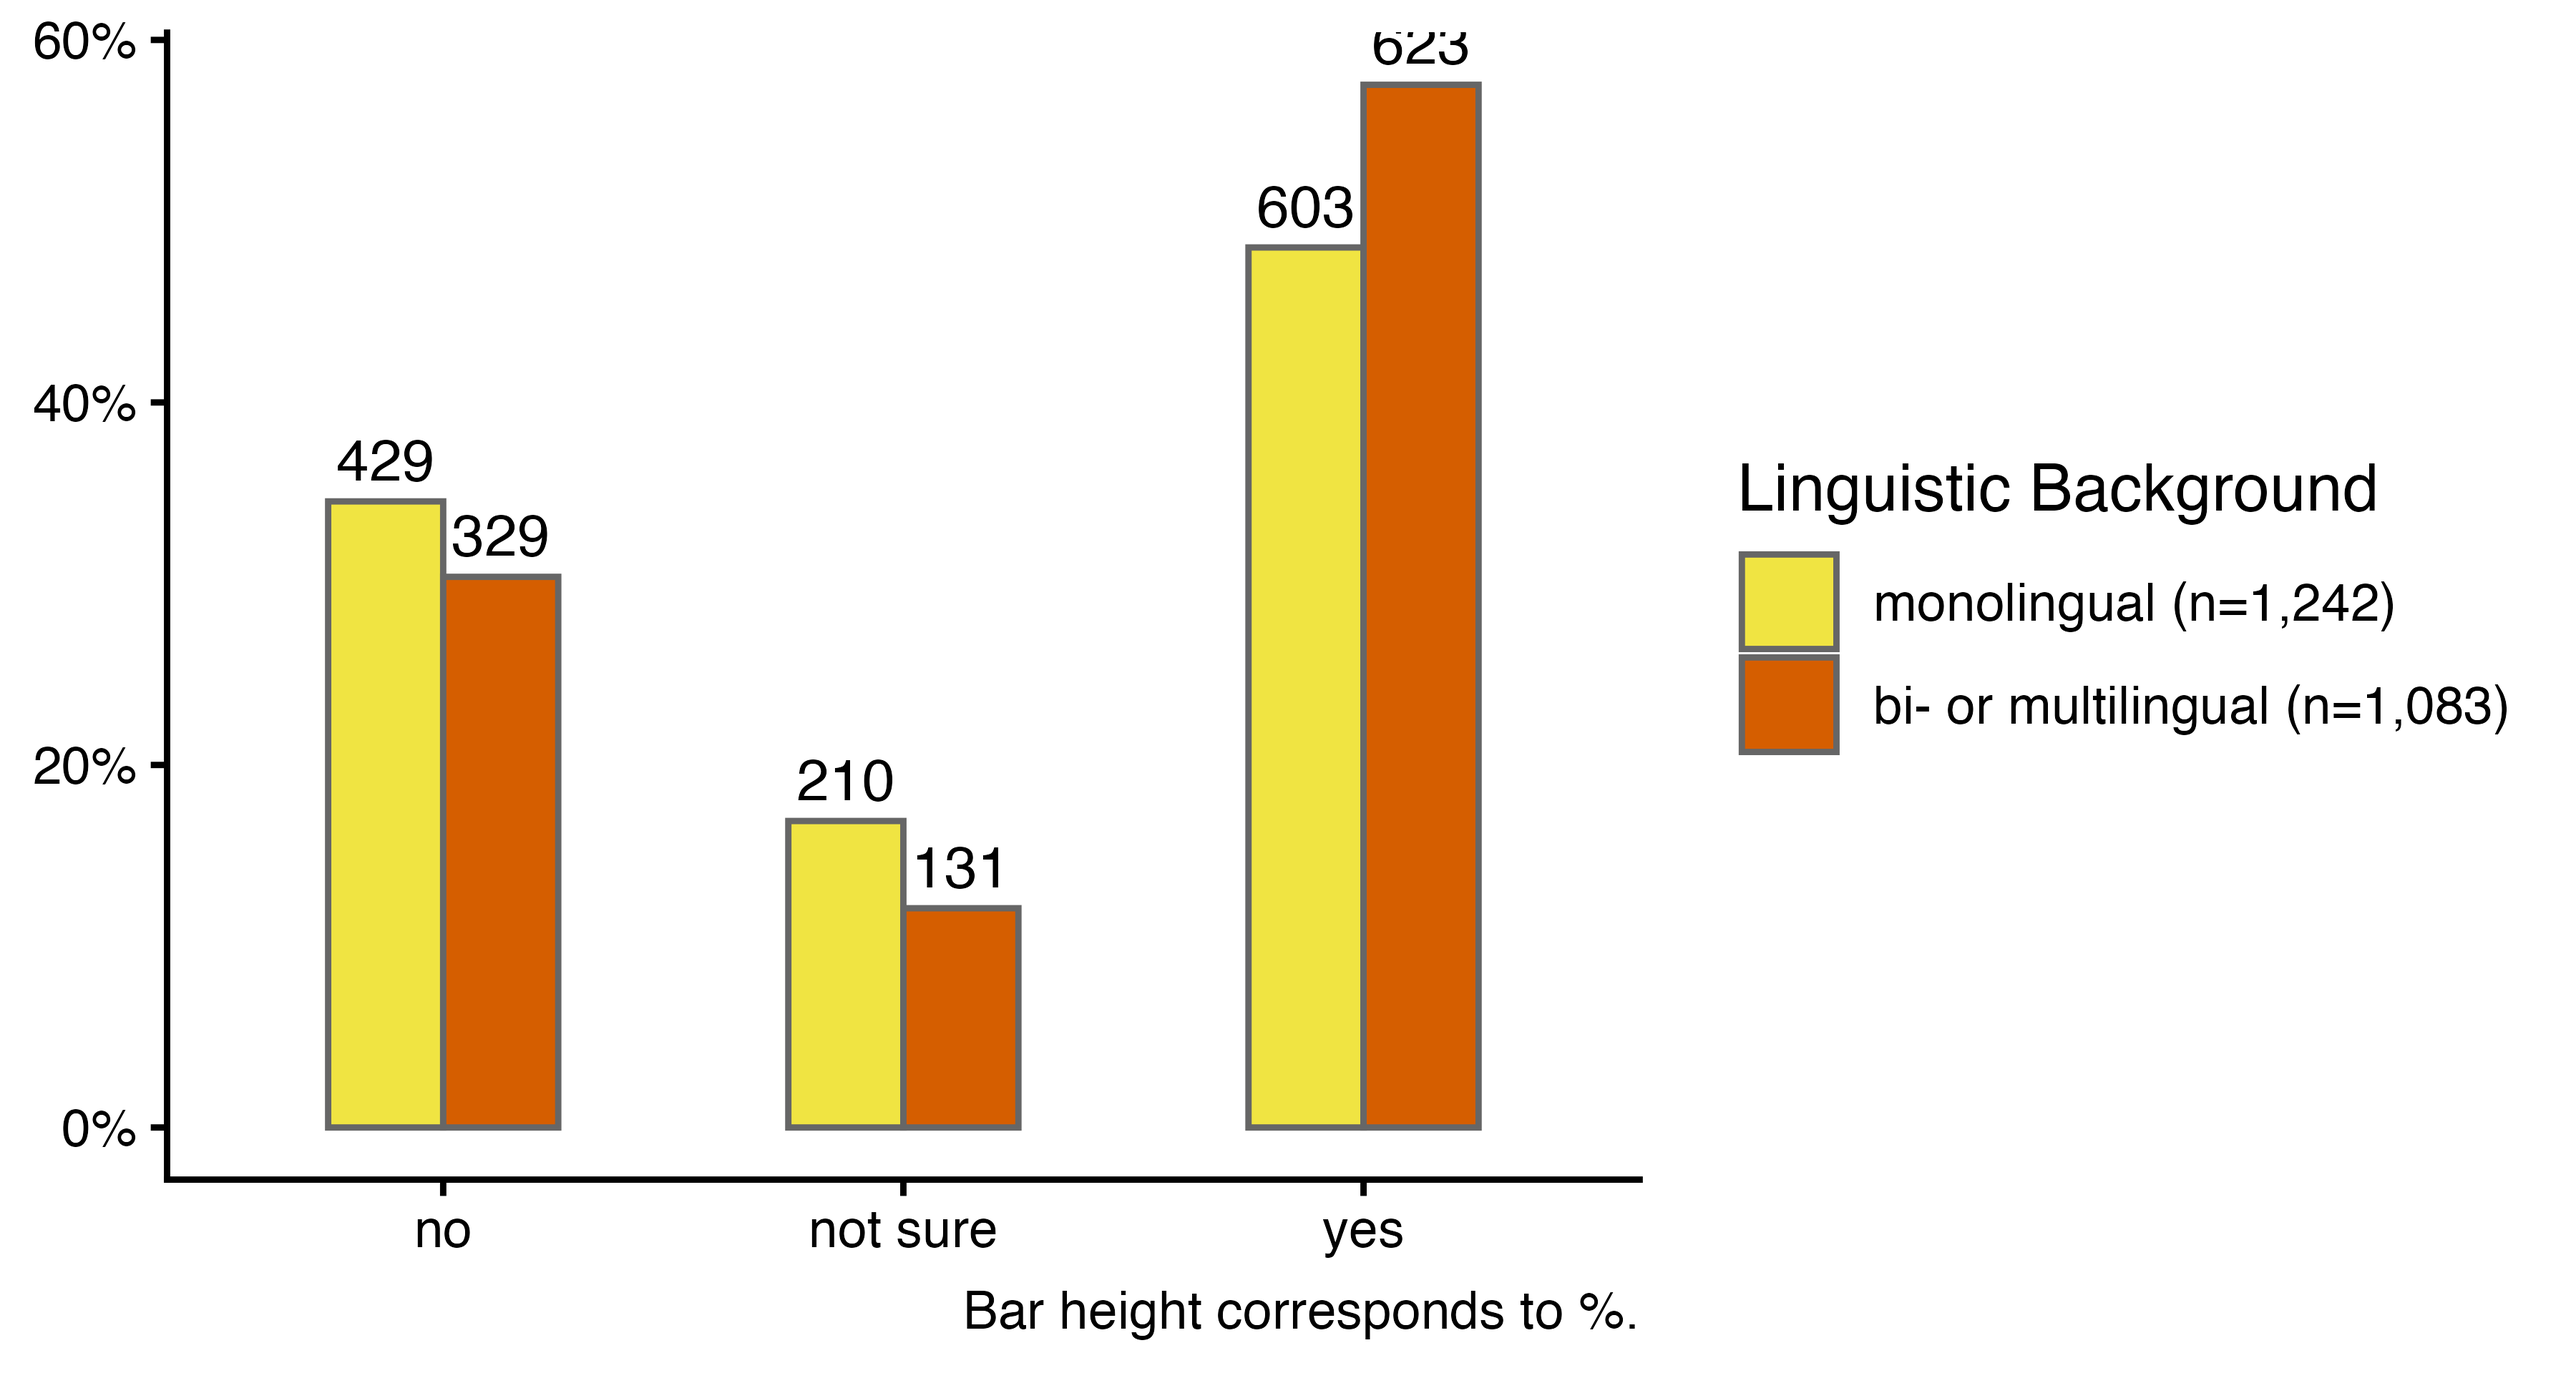
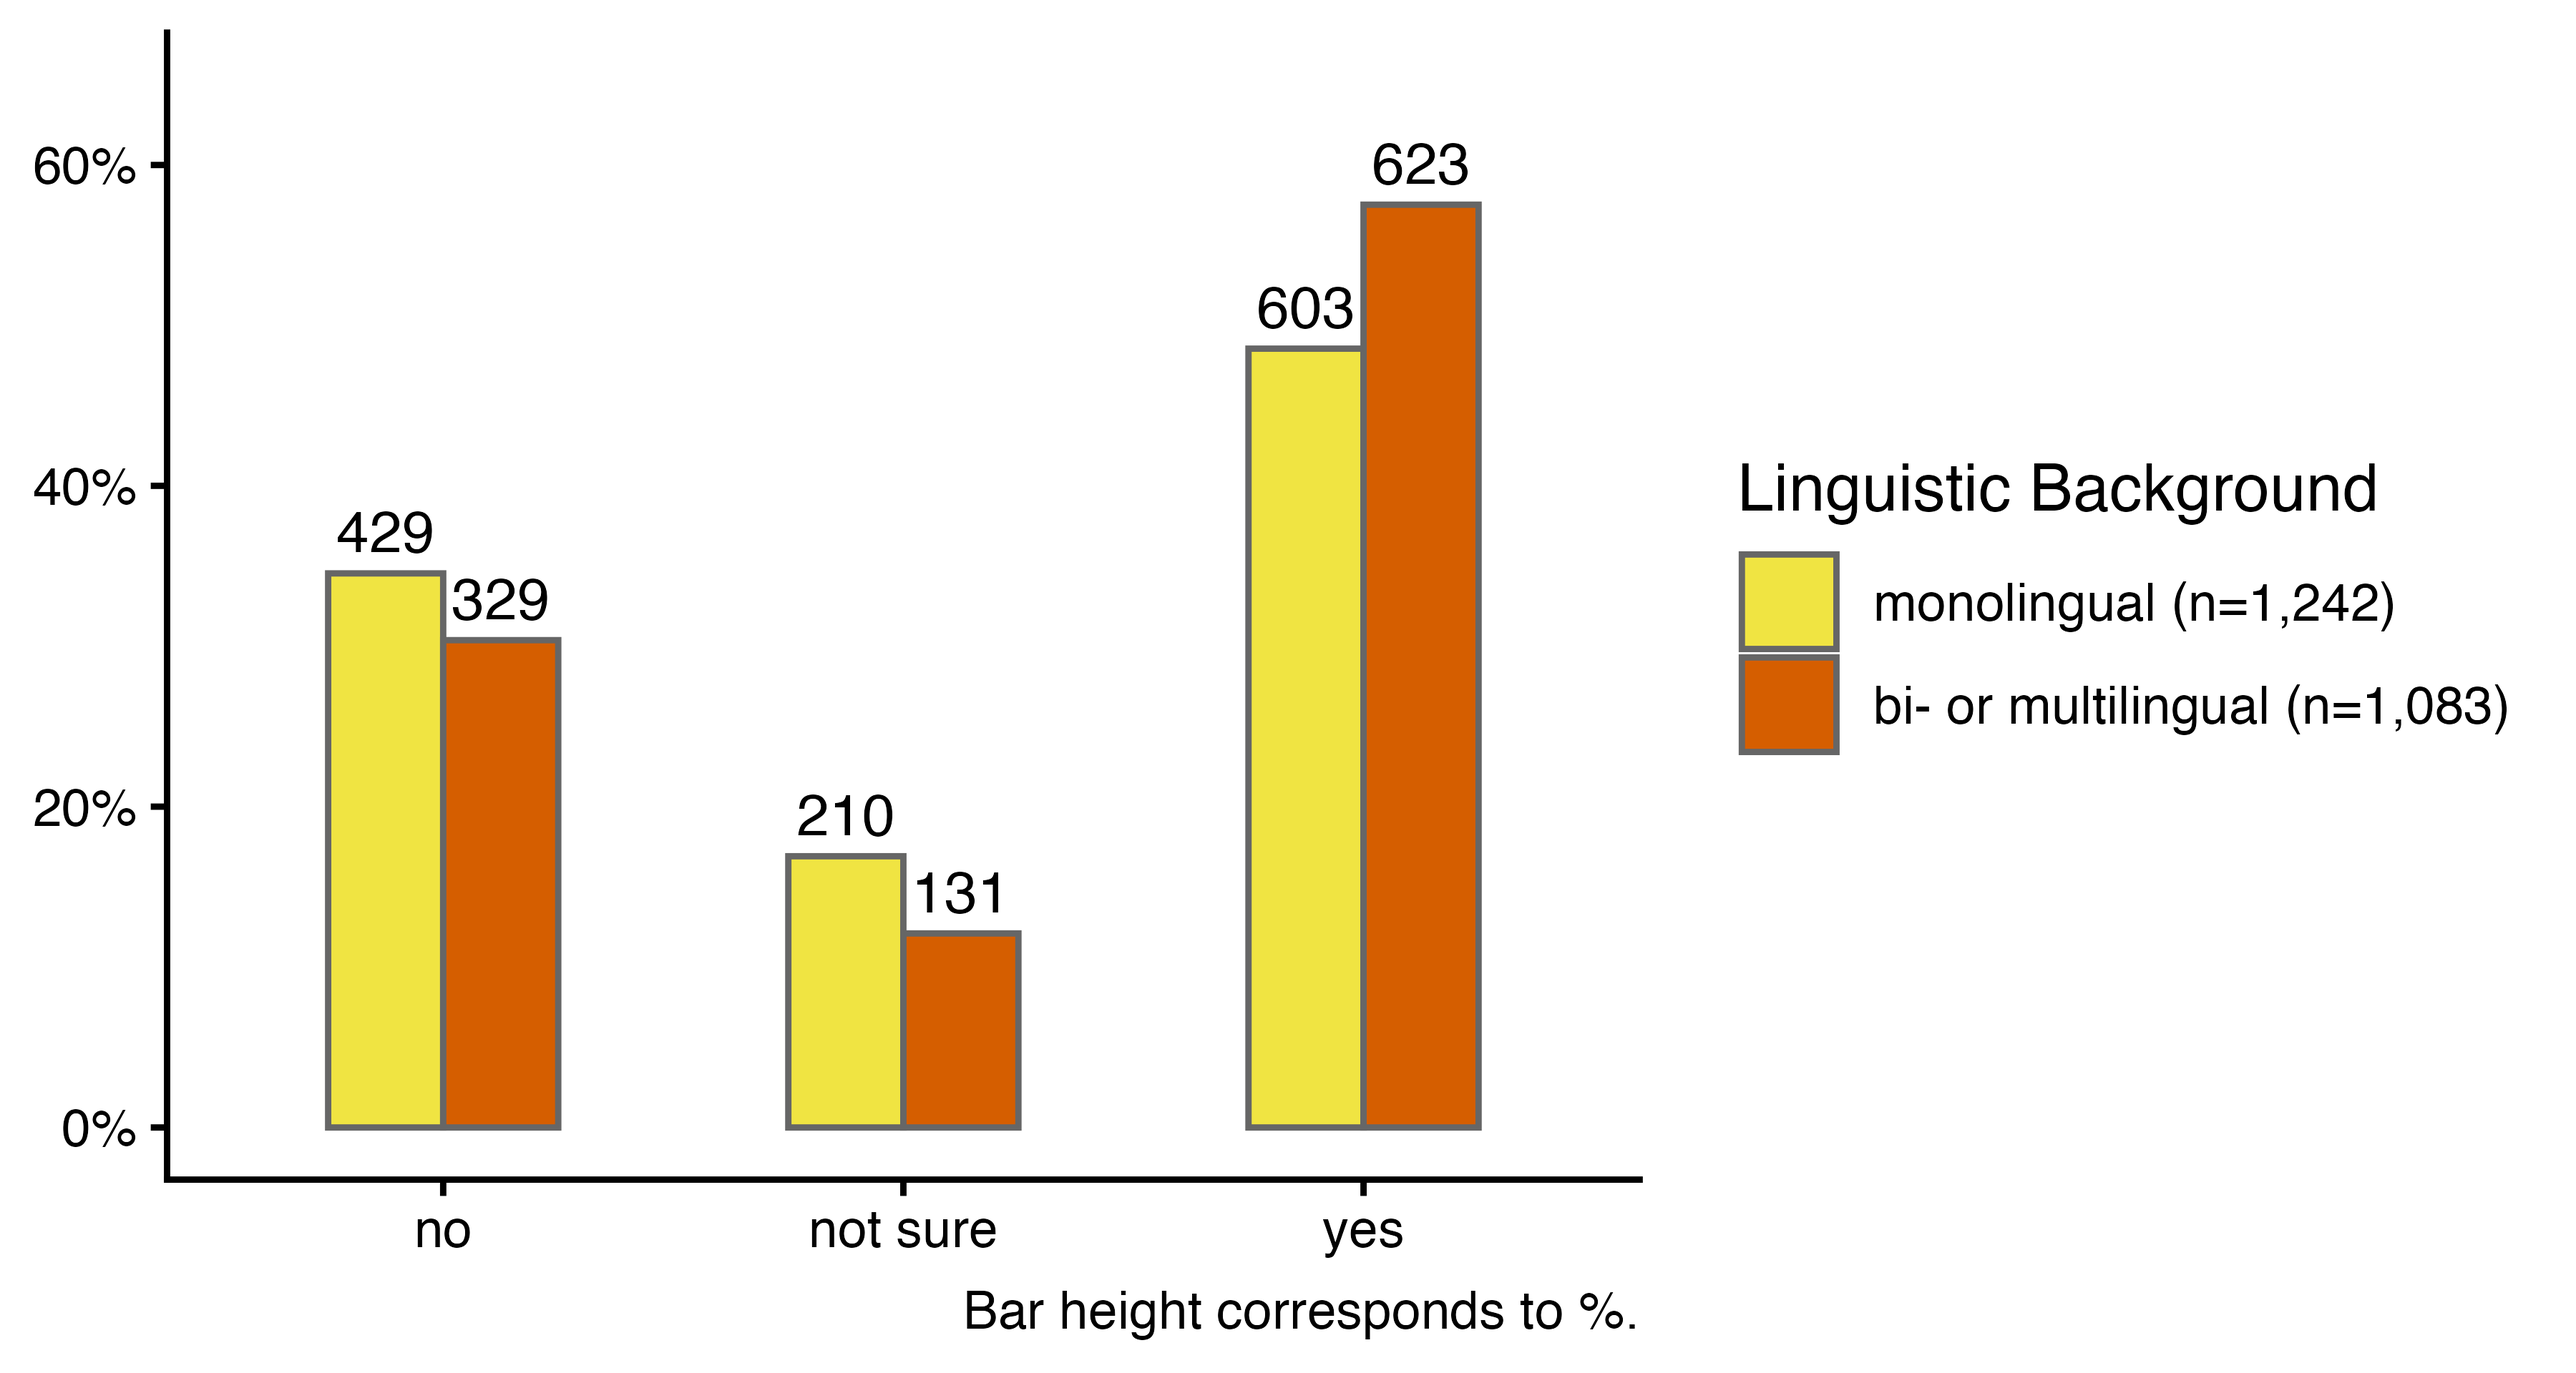
coord_cartesian instead of ylim

diff --git a/index.html b/index.html
@@ -286,23 +286,23 @@ To Stefan
 <p>I have selected the following variables by short names, hoping that these are the correct ones to show in Figure 2.</p>
 <div class="cell">
 <div class="cell-output-display">
-<div id="whhauertcx" style="padding-left:0px;padding-right:0px;padding-top:10px;padding-bottom:10px;overflow-x:auto;overflow-y:auto;width:auto;height:auto;">
-<style>#whhauertcx table {
+<div id="hksutqnycy" style="padding-left:0px;padding-right:0px;padding-top:10px;padding-bottom:10px;overflow-x:auto;overflow-y:auto;width:auto;height:auto;">
+<style>#hksutqnycy table {
   font-family: system-ui, 'Segoe UI', Roboto, Helvetica, Arial, sans-serif, 'Apple Color Emoji', 'Segoe UI Emoji', 'Segoe UI Symbol', 'Noto Color Emoji';
   -webkit-font-smoothing: antialiased;
   -moz-osx-font-smoothing: grayscale;
 }
 
-#whhauertcx thead, #whhauertcx tbody, #whhauertcx tfoot, #whhauertcx tr, #whhauertcx td, #whhauertcx th {
+#hksutqnycy thead, #hksutqnycy tbody, #hksutqnycy tfoot, #hksutqnycy tr, #hksutqnycy td, #hksutqnycy th {
   border-style: none;
 }
 
-#whhauertcx p {
+#hksutqnycy p {
   margin: 0;
   padding: 0;
 }
 
-#whhauertcx .gt_table {
+#hksutqnycy .gt_table {
   display: table;
   border-collapse: collapse;
   line-height: normal;
@@ -328,12 +328,12 @@ To Stefan
   border-left-color: #D3D3D3;
 }
 
-#whhauertcx .gt_caption {
+#hksutqnycy .gt_caption {
   padding-top: 4px;
   padding-bottom: 4px;
 }
 
-#whhauertcx .gt_title {
+#hksutqnycy .gt_title {
   color: #333333;
   font-size: 125%;
   font-weight: initial;
@@ -345,7 +345,7 @@ To Stefan
   border-bottom-width: 0;
 }
 
-#whhauertcx .gt_subtitle {
+#hksutqnycy .gt_subtitle {
   color: #333333;
   font-size: 85%;
   font-weight: initial;
@@ -357,7 +357,7 @@ To Stefan
   border-top-width: 0;
 }
 
-#whhauertcx .gt_heading {
+#hksutqnycy .gt_heading {
   background-color: #FFFFFF;
   text-align: center;
   border-bottom-color: #FFFFFF;
@@ -369,13 +369,13 @@ To Stefan
   border-right-color: #D3D3D3;
 }
 
-#whhauertcx .gt_bottom_border {
+#hksutqnycy .gt_bottom_border {
   border-bottom-style: solid;
   border-bottom-width: 2px;
   border-bottom-color: #D3D3D3;
 }
 
-#whhauertcx .gt_col_headings {
+#hksutqnycy .gt_col_headings {
   border-top-style: solid;
   border-top-width: 2px;
   border-top-color: #D3D3D3;
@@ -390,7 +390,7 @@ To Stefan
   border-right-color: #D3D3D3;
 }
 
-#whhauertcx .gt_col_heading {
+#hksutqnycy .gt_col_heading {
   color: #333333;
   background-color: #FFFFFF;
   font-size: 100%;
@@ -410,7 +410,7 @@ To Stefan
   overflow-x: hidden;
 }
 
-#whhauertcx .gt_column_spanner_outer {
+#hksutqnycy .gt_column_spanner_outer {
   color: #333333;
   background-color: #FFFFFF;
   font-size: 100%;
@@ -422,15 +422,15 @@ To Stefan
   padding-right: 4px;
 }
 
-#whhauertcx .gt_column_spanner_outer:first-child {
+#hksutqnycy .gt_column_spanner_outer:first-child {
   padding-left: 0;
 }
 
-#whhauertcx .gt_column_spanner_outer:last-child {
+#hksutqnycy .gt_column_spanner_outer:last-child {
   padding-right: 0;
 }
 
-#whhauertcx .gt_column_spanner {
+#hksutqnycy .gt_column_spanner {
   border-bottom-style: solid;
   border-bottom-width: 2px;
   border-bottom-color: #D3D3D3;
@@ -442,11 +442,11 @@ To Stefan
   width: 100%;
 }
 
-#whhauertcx .gt_spanner_row {
+#hksutqnycy .gt_spanner_row {
   border-bottom-style: hidden;
 }
 
-#whhauertcx .gt_group_heading {
+#hksutqnycy .gt_group_heading {
   padding-top: 8px;
   padding-bottom: 8px;
   padding-left: 5px;
@@ -472,7 +472,7 @@ To Stefan
   text-align: left;
 }
 
-#whhauertcx .gt_empty_group_heading {
+#hksutqnycy .gt_empty_group_heading {
   padding: 0.5px;
   color: #333333;
   background-color: #FFFFFF;
@@ -487,15 +487,15 @@ To Stefan
   vertical-align: middle;
 }
 
-#whhauertcx .gt_from_md > :first-child {
+#hksutqnycy .gt_from_md > :first-child {
   margin-top: 0;
 }
 
-#whhauertcx .gt_from_md > :last-child {
+#hksutqnycy .gt_from_md > :last-child {
   margin-bottom: 0;
 }
 
-#whhauertcx .gt_row {
+#hksutqnycy .gt_row {
   padding-top: 8px;
   padding-bottom: 8px;
   padding-left: 5px;
@@ -514,7 +514,7 @@ To Stefan
   overflow-x: hidden;
 }
 
-#whhauertcx .gt_stub {
+#hksutqnycy .gt_stub {
   color: #333333;
   background-color: #FFFFFF;
   font-size: 100%;
@@ -527,7 +527,7 @@ To Stefan
   padding-right: 5px;
 }
 
-#whhauertcx .gt_stub_row_group {
+#hksutqnycy .gt_stub_row_group {
   color: #333333;
   background-color: #FFFFFF;
   font-size: 100%;
@@ -541,15 +541,15 @@ To Stefan
   vertical-align: top;
 }
 
-#whhauertcx .gt_row_group_first td {
+#hksutqnycy .gt_row_group_first td {
   border-top-width: 2px;
 }
 
-#whhauertcx .gt_row_group_first th {
+#hksutqnycy .gt_row_group_first th {
   border-top-width: 2px;
 }
 
-#whhauertcx .gt_summary_row {
+#hksutqnycy .gt_summary_row {
   color: #333333;
   background-color: #FFFFFF;
   text-transform: inherit;
@@ -559,16 +559,16 @@ To Stefan
   padding-right: 5px;
 }
 
-#whhauertcx .gt_first_summary_row {
+#hksutqnycy .gt_first_summary_row {
   border-top-style: solid;
   border-top-color: #D3D3D3;
 }
 
-#whhauertcx .gt_first_summary_row.thick {
+#hksutqnycy .gt_first_summary_row.thick {
   border-top-width: 2px;
 }
 
-#whhauertcx .gt_last_summary_row {
+#hksutqnycy .gt_last_summary_row {
   padding-top: 8px;
   padding-bottom: 8px;
   padding-left: 5px;
@@ -578,7 +578,7 @@ To Stefan
   border-bottom-color: #D3D3D3;
 }
 
-#whhauertcx .gt_grand_summary_row {
+#hksutqnycy .gt_grand_summary_row {
   color: #333333;
   background-color: #FFFFFF;
   text-transform: inherit;
@@ -588,7 +588,7 @@ To Stefan
   padding-right: 5px;
 }
 
-#whhauertcx .gt_first_grand_summary_row {
+#hksutqnycy .gt_first_grand_summary_row {
   padding-top: 8px;
   padding-bottom: 8px;
   padding-left: 5px;
@@ -598,7 +598,7 @@ To Stefan
   border-top-color: #D3D3D3;
 }
 
-#whhauertcx .gt_last_grand_summary_row_top {
+#hksutqnycy .gt_last_grand_summary_row_top {
   padding-top: 8px;
   padding-bottom: 8px;
   padding-left: 5px;
@@ -608,11 +608,11 @@ To Stefan
   border-bottom-color: #D3D3D3;
 }
 
-#whhauertcx .gt_striped {
+#hksutqnycy .gt_striped {
   background-color: rgba(128, 128, 128, 0.05);
 }
 
-#whhauertcx .gt_table_body {
+#hksutqnycy .gt_table_body {
   border-top-style: solid;
   border-top-width: 2px;
   border-top-color: #D3D3D3;
@@ -621,7 +621,7 @@ To Stefan
   border-bottom-color: #D3D3D3;
 }
 
-#whhauertcx .gt_footnotes {
+#hksutqnycy .gt_footnotes {
   color: #333333;
   background-color: #FFFFFF;
   border-bottom-style: none;
@@ -635,7 +635,7 @@ To Stefan
   border-right-color: #D3D3D3;
 }
 
-#whhauertcx .gt_footnote {
+#hksutqnycy .gt_footnote {
   margin: 0px;
   font-size: 90%;
   padding-top: 4px;
@@ -644,7 +644,7 @@ To Stefan
   padding-right: 5px;
 }
 
-#whhauertcx .gt_sourcenotes {
+#hksutqnycy .gt_sourcenotes {
   color: #333333;
   background-color: #FFFFFF;
   border-bottom-style: none;
@@ -658,7 +658,7 @@ To Stefan
   border-right-color: #D3D3D3;
 }
 
-#whhauertcx .gt_sourcenote {
+#hksutqnycy .gt_sourcenote {
   font-size: 90%;
   padding-top: 4px;
   padding-bottom: 4px;
@@ -666,72 +666,72 @@ To Stefan
   padding-right: 5px;
 }
 
-#whhauertcx .gt_left {
+#hksutqnycy .gt_left {
   text-align: left;
 }
 
-#whhauertcx .gt_center {
+#hksutqnycy .gt_center {
   text-align: center;
 }
 
-#whhauertcx .gt_right {
+#hksutqnycy .gt_right {
   text-align: right;
   font-variant-numeric: tabular-nums;
 }
 
-#whhauertcx .gt_font_normal {
+#hksutqnycy .gt_font_normal {
   font-weight: normal;
 }
 
-#whhauertcx .gt_font_bold {
+#hksutqnycy .gt_font_bold {
   font-weight: bold;
 }
 
-#whhauertcx .gt_font_italic {
+#hksutqnycy .gt_font_italic {
   font-style: italic;
 }
 
-#whhauertcx .gt_super {
+#hksutqnycy .gt_super {
   font-size: 65%;
 }
 
-#whhauertcx .gt_footnote_marks {
+#hksutqnycy .gt_footnote_marks {
   font-size: 75%;
   vertical-align: 0.4em;
   position: initial;
 }
 
-#whhauertcx .gt_asterisk {
+#hksutqnycy .gt_asterisk {
   font-size: 100%;
   vertical-align: 0;
 }
 
-#whhauertcx .gt_indent_1 {
+#hksutqnycy .gt_indent_1 {
   text-indent: 5px;
 }
 
-#whhauertcx .gt_indent_2 {
+#hksutqnycy .gt_indent_2 {
   text-indent: 10px;
 }
 
-#whhauertcx .gt_indent_3 {
+#hksutqnycy .gt_indent_3 {
   text-indent: 15px;
 }
 
-#whhauertcx .gt_indent_4 {
+#hksutqnycy .gt_indent_4 {
   text-indent: 20px;
 }
 
-#whhauertcx .gt_indent_5 {
+#hksutqnycy .gt_indent_5 {
   text-indent: 25px;
 }
 
-#whhauertcx .katex-display {
+#hksutqnycy .katex-display {
   display: inline-flex !important;
   margin-bottom: 0.75em !important;
 }
 
-#whhauertcx div.Reactable > div.rt-table > div.rt-thead > div.rt-tr.rt-tr-group-header > div.rt-th-group:after {
+#hksutqnycy div.Reactable > div.rt-table > div.rt-thead > div.rt-tr.rt-tr-group-header > div.rt-th-group:after {
   height: 0px !important;
 }
 </style>
